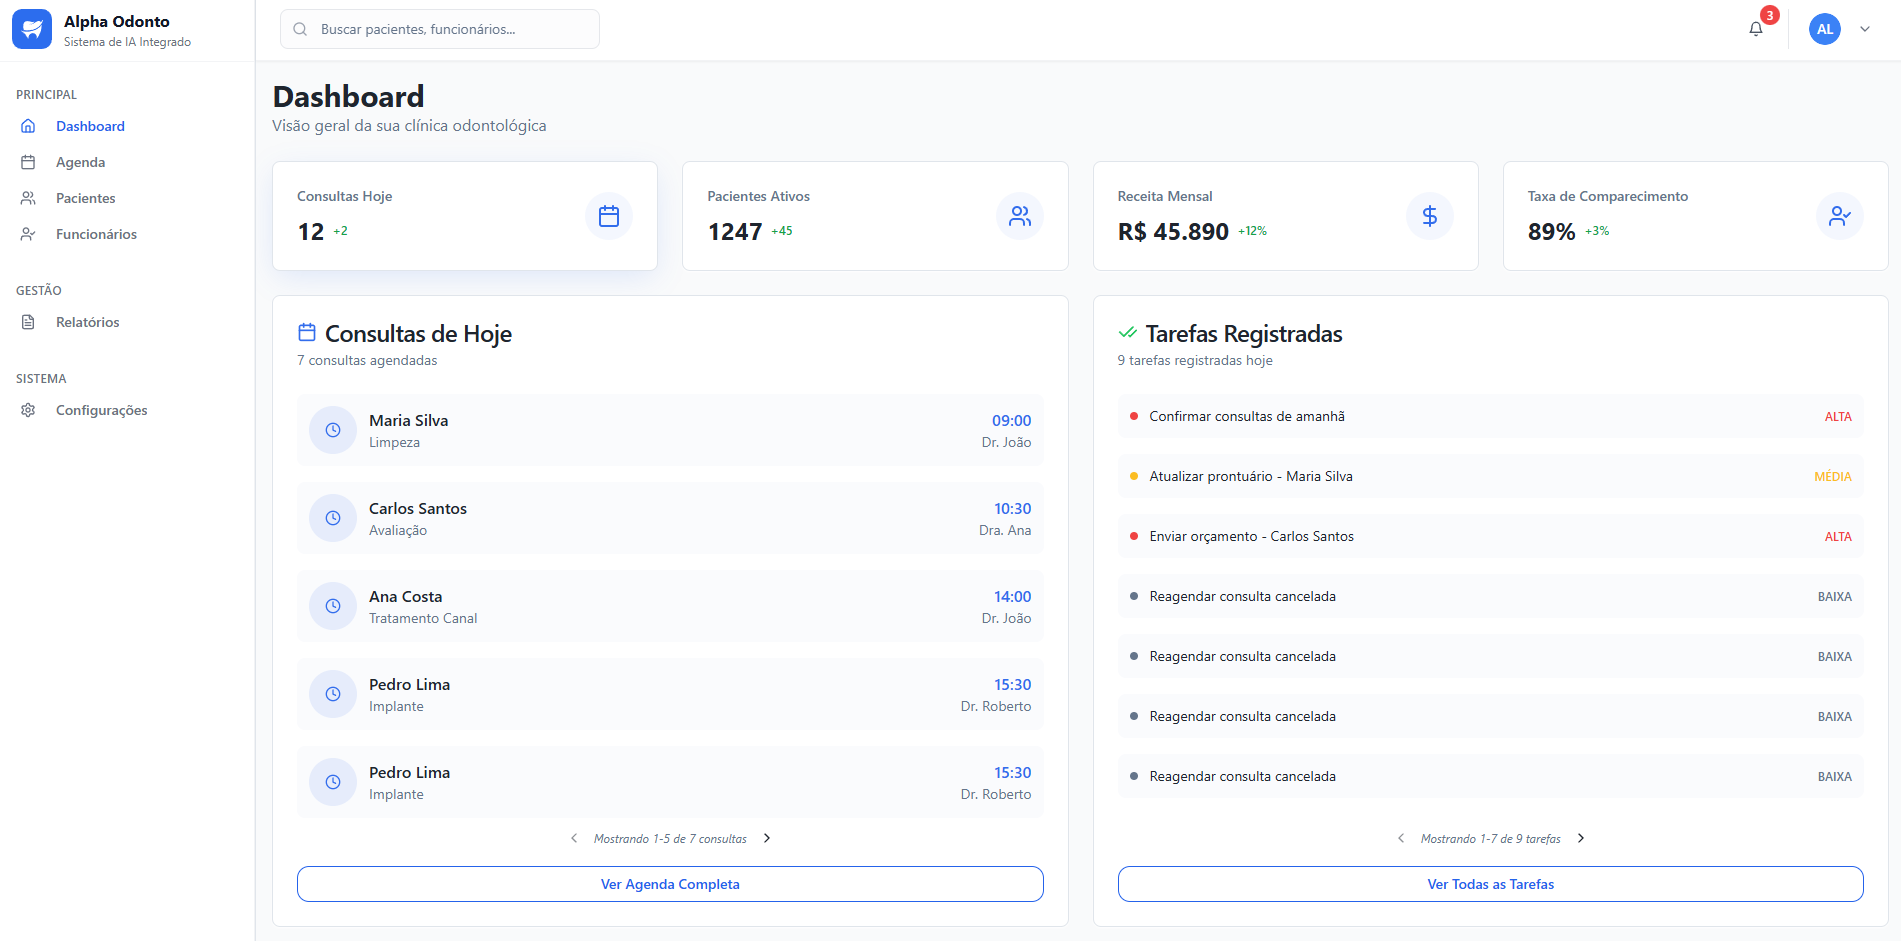
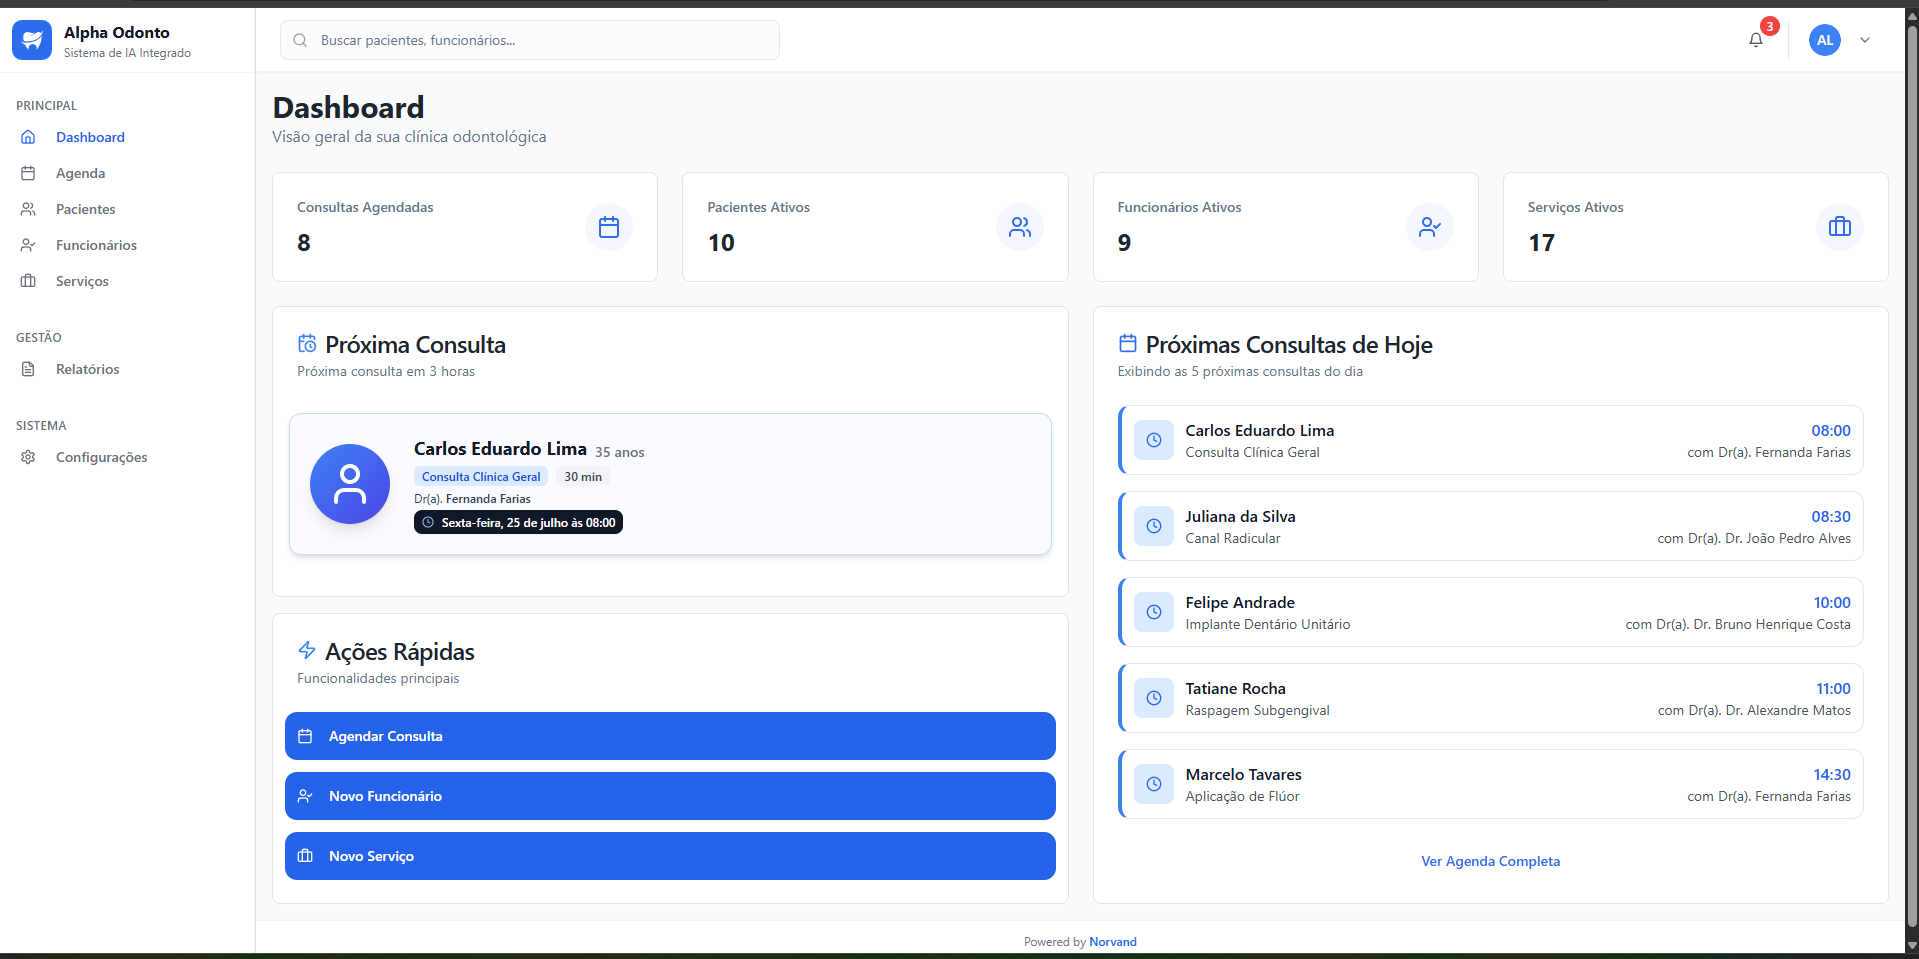
feat: enhance appointment sorting and pagination in Dashboard; filter upcoming appointments and improve UI elements for better clarity

diff --git a/src/components/dashboard/Dashboard.tsx b/src/components/dashboard/Dashboard.tsx
@@ -122,13 +122,15 @@ export function Dashboard() {
   });
 
   // Ordena as consultas do mais cedo para o mais tarde
-  const sortedAppointments = [...onlyTodayAppointments].sort((a, b) =>
-    a.appointmentAt.localeCompare(b.appointmentAt)
-  );
+  const now = new Date();
+  const sortedAppointments = [...onlyTodayAppointments]
+    .filter((a) => new Date(a.appointmentAt) >= now)
+    .sort((a, b) => a.appointmentAt.localeCompare(b.appointmentAt));
 
+  // Pega apenas as 5 próximas do dia
   const paginatedAppointments = sortedAppointments.slice(
-    appointmentsPage * APPOINTMENTS_PER_PAGE,
-    (appointmentsPage + 1) * APPOINTMENTS_PER_PAGE
+    0,
+    APPOINTMENTS_PER_PAGE
   );
 
   return (
@@ -170,9 +172,9 @@ export function Dashboard() {
       <div className="grid grid-cols-1 lg:grid-cols-2 gap-6">
         {/* Coluna 1: Próxima Consulta + Ações Rápidas */}
         <div className="h-full flex flex-col space-y-4">
-          {/* Próxima Consulta - menor */}
+          {/* Próxima Consulta - destaque equilibrado */}
           <Card className="shadow-card flex-1">
-            <CardHeader className="pb-3">
+            <CardHeader className="pb-4">
               <CardTitle className="flex items-center gap-2">
                 <CalendarClock className="w-5 h-5 text-blue-500" />
                 Próxima Consulta
@@ -183,10 +185,10 @@ export function Dashboard() {
                   : "Nenhuma consulta agendada"}
               </CardDescription>
             </CardHeader>
-            <CardContent className="p-3 flex-1 flex items-center">
+            <CardContent className="p-4 flex-1 flex items-center">
               {nextAppointment ? (
                 <div
-                  className="w-full flex flex-row items-center gap-5 p-5 rounded-xl border border-blue-200 cursor-pointer shadow-sm transition-shadow"
+                  className="w-full flex flex-row items-center gap-6 p-5 rounded-xl border border-blue-200 cursor-pointer shadow-md transition-shadow hover:shadow-lg bg-blue-50 bg-opacity-40"
                   onClick={async (e) => {
                     e.stopPropagation();
                     setProfileDialogLoading(true);
@@ -262,17 +264,17 @@ export function Dashboard() {
                 >
                   {/* Avatar */}
                   {/* <div className="flex items-center justify-center w-12 h-12 bg-gradient-to-br from-blue-500 to-indigo-600 rounded-full shadow-lg"> */}
-                  <div className="flex items-center justify-center w-[5rem] h-[5rem] bg-gradient-to-br from-blue-500 to-indigo-600 rounded-full shadow-lg">
+                  <div className="flex items-center justify-center w-20 h-20 bg-gradient-to-br from-blue-500 to-indigo-600 rounded-full shadow-lg">
                     <User className="w-12 h-12 text-white" />
                   </div>
                   {/* Informações */}
                   <div className="flex-1 min-w-0">
                     <div className="flex items-end gap-2 mb-1">
-                      <h3 className="text-base font-bold text-gray-900 truncate">
+                      <h3 className="text-lg font-bold text-gray-900 truncate">
                         {nextAppointment.patientName}
                       </h3>
                       {nextAppointment.patientAge !== undefined && (
-                        <span className="text-xs text-gray-500 font-medium">
+                        <span className="text-sm text-gray-500 font-medium">
                           {nextAppointment.patientAge} anos
                         </span>
                       )}
@@ -293,7 +295,7 @@ export function Dashboard() {
                         </span>
                       </p>
                     )}
-                    <div className="flex items-center gap-2">
+                    <div className="flex items-center gap-2 mt-1">
                       <div className="flex items-center gap-2 px-2 py-1 bg-gray-900 text-white rounded-lg shadow-sm">
                         <Clock className="w-3 h-3 text-blue-300" />
                         <span className="text-xs font-medium">
@@ -381,10 +383,11 @@ export function Dashboard() {
           <CardHeader>
             <CardTitle className="flex items-center gap-2">
               <Calendar className="w-5 h-5 text-primary" />
-              Consultas de Hoje
+              Próximas Consultas de Hoje
             </CardTitle>
             <CardDescription>
-              {todayAppointments.length} consultas agendadas
+              Exibindo as {paginatedAppointments.length} próximas consultas do
+              dia
             </CardDescription>
           </CardHeader>
           <CardContent className="flex-1 flex flex-col">
@@ -448,7 +451,7 @@ export function Dashboard() {
             </div>
             {todayAppointments.length > APPOINTMENTS_PER_PAGE && (
               <div className="flex items-center justify-center gap-2 mt-2">
-                <Button
+                {/* <Button
                   size="icon"
                   variant="ghost"
                   className="p-1 h-6 w-6"
@@ -505,7 +508,7 @@ export function Dashboard() {
                       d="M9 18l6-6-6-6"
                     />
                   </svg>
-                </Button>
+                </Button> */}
               </div>
             )}
             <div className="mt-4">
